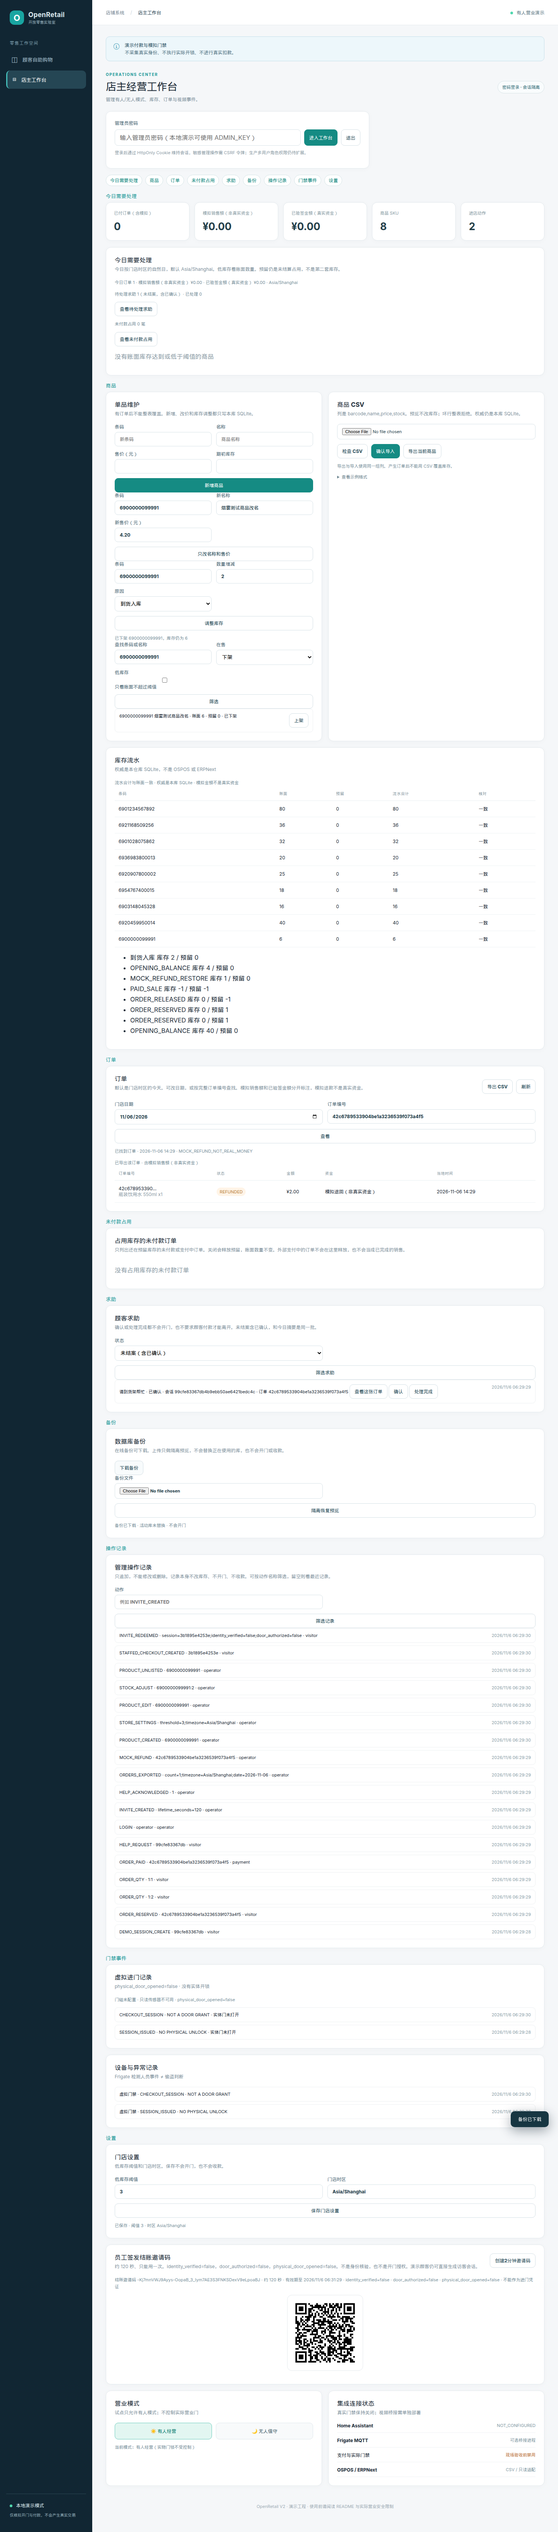
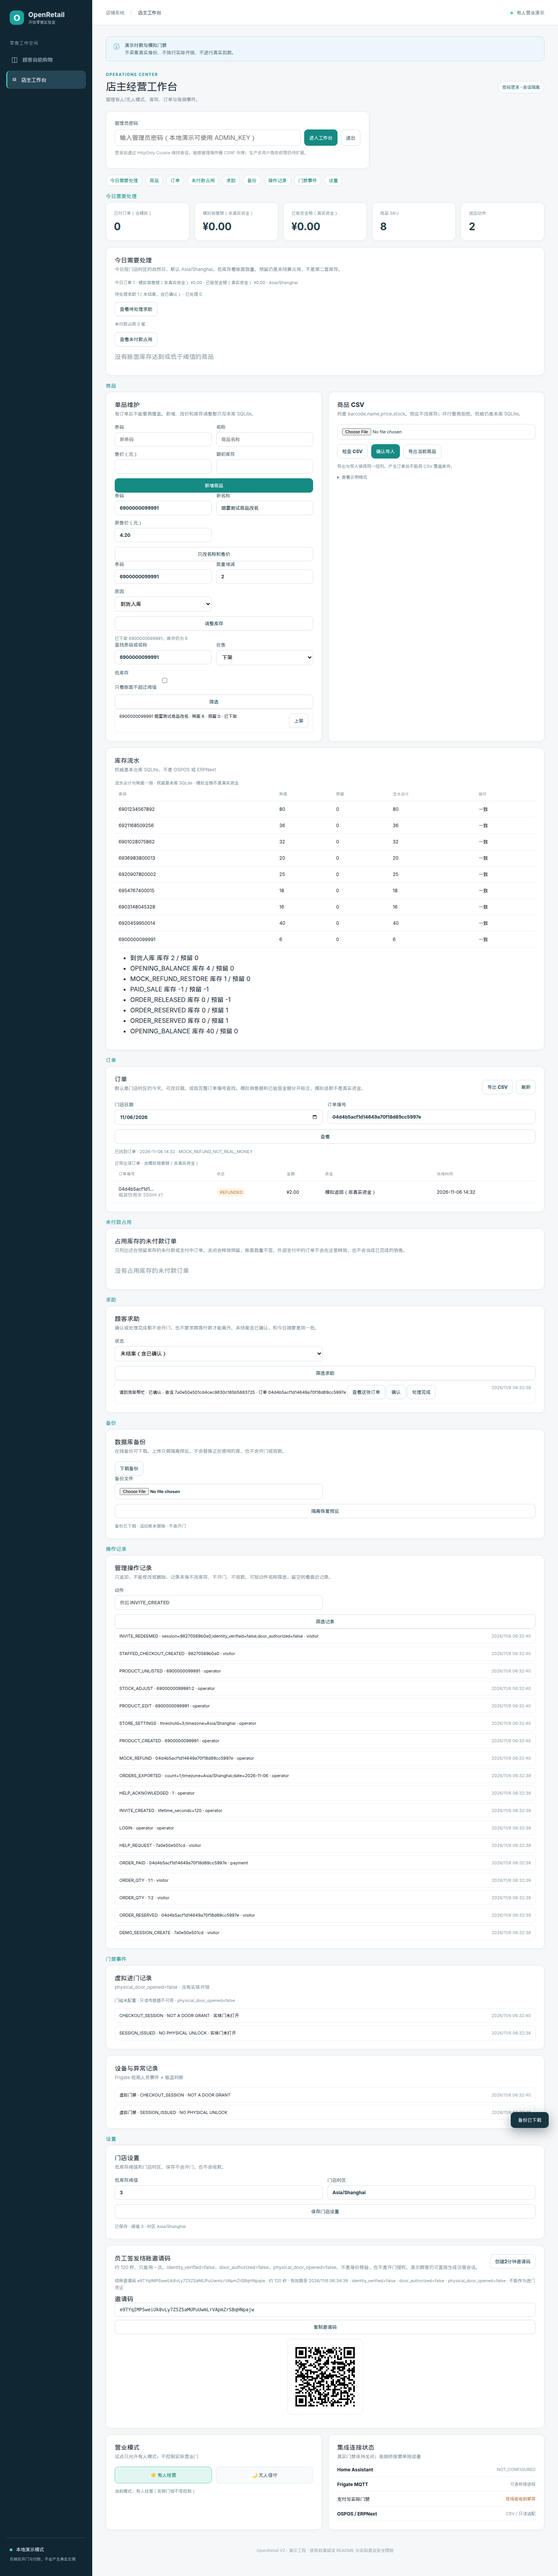
Let staff copy the unused checkout invite code.
The copy control uses only that code, and it does not issue another invite or write the code into the audit log.

diff --git a/web/index.html b/web/index.html
@@ -103,7 +103,7 @@
           <article class="surface"><div class="surface-heading"><div><h2>门店设置</h2><p>低库存阈值和门店时区。保存不会开门，也不会收款。</p></div></div><form id="store-settings-form" class="product-form"><label>低库存阈值<input id="low-stock-threshold" name="threshold" type="number" min="1" max="10000" required></label><label>门店时区<input id="store-timezone" name="timezone" required placeholder="Asia/Shanghai"></label><button class="btn secondary" type="submit">保存门店设置</button></form><div id="store-settings-status" class="inline-note">尚未修改</div></article>
           <article class="surface invite-panel"><div class="surface-heading"><div><h2>员工签发结账邀请码</h2>
             <p>约 120 秒、只能用一次。identity_verified=false，door_authorized=false，physical_door_opened=false。不是身份核验，也不是开门授权。演示顾客仍可直接生成访客会话。</p></div><button id="issue-invite" class="btn secondary">创建2分钟邀请码</button></div>
-            <div id="invite-result" class="inline-note">尚未生成</div><img id="invite-qr" class="qr-code" alt="试点结账二维码" hidden></article>
+            <div id="invite-result" class="inline-note">尚未生成</div><div class="invite-code-row"><label>邀请码<input id="invite-code" readonly aria-label="邀请码"></label><button id="invite-copy" class="btn secondary" type="button">复制邀请码</button></div><img id="invite-qr" class="qr-code" alt="试点结账二维码" hidden></article>
           <div class="admin-grid">
             <article class="surface"><div class="surface-heading"><div><h2>营业模式</h2><p>试点只允许有人模式；不控制实际营业门</p></div></div><div class="mode-options"><button id="mode-staffed" class="mode-btn">☀ 有人经营</button><button id="mode-unattended" class="mode-btn">🌙 无人值守</button></div><div class="inline-note" id="mode-info">当前模式：—</div></article>
             <article class="surface"><div class="surface-heading"><div><h2>集成连接状态</h2><p>真实门禁保持关闭；视频桥接需单独部署</p></div></div><div class="integrations"><div><b>Home Assistant</b><span id="ha-state">未启用</span></div><div><b>Frigate MQTT</b><span>可选桥接进程</span></div><div><b>支付与实际门禁</b><span class="status-warning">现场验收前禁用</span></div><div><b>OSPOS / ERPNext</b><span>CSV / 只读适配</span></div></div></article>

diff --git a/web/styles.css b/web/styles.css
@@ -5,6 +5,6 @@
 
 .invite-redeem{display:grid;gap:8px;margin-top:10px}.invite-redeem input{width:100%;min-width:0;padding:10px;border:1px solid #d8e3e5;border-radius:9px}.qr-code{display:block;width:196px;height:196px;object-fit:contain;margin:12px auto;border:1px solid #e5e9ed;border-radius:12px;padding:8px;background:#fff}.qr-code[hidden]{display:none}
 
-.invite-panel{margin-bottom:16px}
+.invite-panel{margin-bottom:16px}.invite-code-row{display:grid;gap:8px;margin-top:10px}.invite-code-row input{width:100%;min-width:0;max-width:100%;font-family:ui-monospace,SFMono-Regular,monospace;font-size:12px}
 .admin-nav{display:flex;flex-wrap:wrap;gap:8px;margin:0 0 8px;max-width:100%}.admin-nav a{font-size:12px;font-weight:700;color:#158b83;text-decoration:none;border:1px solid #d4e4e6;background:#fff;border-radius:999px;padding:6px 10px;max-width:100%}.admin-section{scroll-margin-top:12px}.admin-section-title{font-size:13px;letter-spacing:.4px;color:#1e9999;margin:18px 0 8px}
 .receipt{margin-top:12px;padding:12px;border:1px solid #d5e0e6;border-radius:12px;background:#fff;color:#1c2b37}.receipt label{display:block;font-size:12px;color:#506b78;font-weight:650}.receipt input{display:block;width:100%;max-width:100%;margin-top:6px;font-family:ui-monospace,SFMono-Regular,monospace;font-size:12px}.receipt-status,#receipt-items,#receipt-amount,#receipt-money{font-size:12px;margin-top:8px;overflow-wrap:anywhere}.order-history .receipt-id{font-family:ui-monospace,SFMono-Regular,monospace;font-size:12px;margin:6px 0;overflow-wrap:anywhere}

diff --git a/web/app.js b/web/app.js
@@ -85,10 +85,12 @@ $('issue-invite').onclick=()=>run(async()=>{
  try{const r=await api('/api/admin/checkout-invite',{admin:true,method:'POST'});
   if(r.duplicate)return;
   if(r.identity_verified||r.door_authorized||r.physical_door_opened||r.payment_required_to_leave)throw Error('邀请码不应核验身份或开门');
+  $('invite-code').value=r.invite;
   $('invite-result').textContent='结账邀请码 '+r.invite+' · 约 '+(r.lifetime_seconds||120)+' 秒 · 有效期至 '+time(r.expires_at)+' · identity_verified=false · door_authorized=false · physical_door_opened=false · 不能作为进门凭证';
   $('invite-qr').src=r.qr_data_uri;$('invite-qr').hidden=false;
  }finally{state.issuing=false;$('issue-invite').disabled=false}
 });
+$('invite-copy').onclick=()=>run(async()=>{const code=$('invite-code').value;if(!code)throw Error('还没有邀请码');$('invite-code').focus();$('invite-code').select();try{await navigator.clipboard.writeText(code);toast('邀请码已复制')}catch{toast('邀请码已选中，可手动复制')}});
 $('cancel-order-btn').onclick=()=>run(async()=>{if(!state.orderId)return;
  const r=await api('/api/orders/'+state.orderId+'/cancel',{method:'POST',guest:true});
  state.orderId='';state.orderTotal=null;state.orderLines=null;$('pay-btn').disabled=true;$('cancel-order-btn').disabled=true;

diff --git a/tests/test_invite_copy.py b/tests/test_invite_copy.py
@@ -1,0 +1,49 @@
+"""Copying an invite reads the unused code and does not issue another one."""
+from conftest import visitor
+
+
+def test_invite_copy_uses_the_code_only(client, admin_header):
+    product=client.get('/api/products').json()[0]
+    with client.app.state.db.connect() as conn:
+        stock=conn.execute('SELECT stock,reserved_stock FROM products WHERE id=?',(product['id'],)).fetchone()
+        moves=conn.execute('SELECT COUNT(*) n FROM stock_movements').fetchone()['n']
+    created=client.post('/api/admin/checkout-invite',headers=admin_header)
+    assert created.status_code==200
+    body=created.json()
+    code=body['invite']
+    assert body['duplicate'] is False and body['lifetime_seconds']==120
+    assert body['identity_verified'] is False and body['door_authorized'] is False
+    assert body['physical_door_opened'] is False and body['payment_required_to_leave'] is False
+    assert 'identity_verified' not in code and ' ' not in code
+    with client.app.state.db.connect() as conn:
+        assert conn.execute('SELECT COUNT(*) n FROM checkout_invites').fetchone()['n']==1
+        audits=conn.execute("SELECT detail FROM audit_events WHERE action='INVITE_CREATED'").fetchall()
+        assert [row['detail'] for row in audits]==['lifetime_seconds=120']
+        assert code not in audits[0]['detail']
+    page=__import__('pathlib').Path('web/index.html').read_text(encoding='utf-8')
+    script=__import__('pathlib').Path('web/app.js').read_text(encoding='utf-8')
+    assert 'id="invite-code"' in page and 'id="invite-copy"' in page and '复制邀请码' in page
+    assert "$('invite-code').value=r.invite" in script
+    copy=script.split("$('invite-copy').onclick")[1].split("$('cancel-order-btn')")[0]
+    assert "const code=$('invite-code').value" in copy
+    assert 'navigator.clipboard.writeText(code)' in copy
+    assert '邀请码已复制' in copy and '邀请码已选中，可手动复制' in copy
+    assert "throw Error('还没有邀请码')" in copy
+    assert 'checkout-invite' not in copy and 'INVITE_CREATED' not in copy
+    assert '结账邀请码' not in copy
+    redeemed=client.post('/api/entry/redeem',json={'invite':code})
+    assert redeemed.status_code==200
+    assert redeemed.json()['identity_verified'] is False and redeemed.json()['door_authorized'] is False
+    assert redeemed.json()['physical_door_opened'] is False
+    direct=client.post('/api/entry')
+    assert direct.status_code==200 and direct.json()['physical_door_opened'] is False
+    with client.app.state.db.connect() as conn:
+        assert conn.execute('SELECT COUNT(*) n FROM checkout_invites').fetchone()['n']==1
+        assert conn.execute("SELECT COUNT(*) n FROM audit_events WHERE action='INVITE_CREATED'").fetchone()['n']==1
+        assert conn.execute("SELECT COUNT(*) n FROM audit_events WHERE action='INVITE_REDEEMED'").fetchone()['n']==1
+        now=conn.execute('SELECT stock,reserved_stock FROM products WHERE id=?',(product['id'],)).fetchone()
+        assert now['stock']==stock['stock'] and now['reserved_stock']==stock['reserved_stock']
+        assert conn.execute('SELECT COUNT(*) n FROM stock_movements').fetchone()['n']==moves
+    assert client.get('/api/admin/inventory-ledger',headers=admin_header).json()['balanced'] is True
+    guest=visitor(client)
+    assert client.post('/api/orders/'+'x'*32+'/refund',headers=guest).status_code==404

diff --git a/scripts/ui_bridge_smoke.py b/scripts/ui_bridge_smoke.py
@@ -100,10 +100,15 @@ with TestClient(create_app(cfg)) as backend,sync_playwright() as pw:
  p.wait_for_function("(()=>{const t=document.querySelector('#event-list').textContent;return !t.includes('盗窃')&&!t.includes('偷盗')&&!t.includes('未付款离店')})()")
  p.wait_for_function("document.querySelector('#door-lock-note').textContent.includes('physical_door_opened=false')")
  p.wait_for_function("document.querySelector('#door-contact').textContent.includes('门磁未配置') && document.querySelector('#door-contact').textContent.includes('physical_door_opened=false') && !document.querySelector('#door-contact').textContent.includes('已开锁')")
+ p.locator('#invite-copy').click()
+ p.wait_for_function("document.querySelector('#toast').textContent.includes('还没有邀请码')")
  p.evaluate("() => { const b=document.querySelector('#issue-invite'); b.click(); b.click(); }")
  p.wait_for_function("document.querySelector('#invite-result').textContent.includes('120') && document.querySelector('#invite-result').textContent.includes('identity_verified=false') && document.querySelector('#invite-result').textContent.includes('door_authorized=false') && document.querySelector('#invite-result').textContent.includes('physical_door_opened=false') && document.querySelector('#invite-result').textContent.includes('不能作为进门凭证') && document.querySelector('#invite-qr').hidden===false")
+ p.locator('#invite-copy').click()
+ p.wait_for_function("(()=>{const t=document.querySelector('#toast').textContent;const code=document.querySelector('#invite-code').value;return (t.includes('邀请码已复制')||t.includes('邀请码已选中，可手动复制'))&&code.length>=24&&!code.includes(' ')&&document.querySelector('#invite-result').textContent.includes(code)})()")
  with backend.app.state.db.connect() as conn:
   assert conn.execute('SELECT COUNT(*) n FROM checkout_invites').fetchone()['n']==1
+  assert conn.execute("SELECT COUNT(*) n FROM audit_events WHERE action='INVITE_CREATED'").fetchone()['n']==1
  p.locator('[data-help-status="ACKNOWLEDGED"]').click()
  p.wait_for_function("document.querySelector('#help-list').textContent.includes('已确认')")
  p.wait_for_function("document.querySelector('#ledger-balance').textContent.includes('一致')")
@@ -162,7 +167,7 @@ with TestClient(create_app(cfg)) as backend,sync_playwright() as pw:
  assert '6900000099991' not in p.locator('#catalog').inner_text()
  p.locator('[data-panel="admin"]').click()
  p.wait_for_function("document.querySelector('#ledger-balance').textContent.includes('一致')")
- code=p.locator('#invite-result').inner_text().split('结账邀请码 ',1)[1].split(' · ',1)[0]
+ code=p.locator('#invite-code').input_value()
  p.locator('[data-panel="shop"]').click()
  p.locator('#invite-token').fill(code)
  p.evaluate("() => { const b=document.querySelector('#redeem-btn'); b.click(); b.click(); }")

diff --git a/docs/PROJECT_STATUS.md b/docs/PROJECT_STATUS.md
@@ -4,6 +4,18 @@
 
 完全无人值守经营仍是 **NOT_APPROVED**。示例配置里的真实支付和实体开锁都是关闭的。
 
+## 本增量（复制未使用的邀请码）
+
+已在代码和测试里做到，并在本机复跑：
+
+- 创建成功后，「复制邀请码」只复制那一串未使用的邀请码，不复制旁边的状态句子。剪贴板可用时提示「邀请码已复制」；不可用时选中这串码，提示「邀请码已选中，可手动复制」。还没创建过时提示「还没有邀请码」，不会临时造一个码。
+- 复制不新建邀请码，不写 `INVITE_CREATED`，也不把码放进操作记录或新的服务端表。`INVITE_CREATED` 仍只记 `lifetime_seconds=120`。再次创建成功后，复制的是页面上最新的那一串。创建按钮的进行中保护还在。
+- 用复制出来的未使用码领取，仍只开一个会话，identity_verified、door_authorized、physical_door_opened 仍是 false。页面仍写明不能作为进门凭证。演示「生成访客会话」不需要邀请码，也不写 `INVITE_REDEEMED`。这条路径不改账面或预留，不写库存流水，不开门，不调用支付机构。
+
+`/tmp/openretail-venv/bin/python -m pytest -q`（工作目录 `/workspace`，Python 3.12.3）：**85 passed，1 warning，8.92s，退出码 0**。警告仍是 Starlette 的 `httpx` TestClient 弃用提示。85 = 上一轮 84 + 本增量 1。
+
+`scripts/ui_bridge_smoke.py` 在去掉密钥环境变量后退出码 0。顾客没有先领取邀请码，仍用「生成访客会话」完成 ¥2.00 模拟支付，并含「模拟支付成功 · 非真实资金 · 已扣库存」。管理页在创建前点复制，提示「还没有邀请码」；创建一张后再复制，提示已复制或已选中可手动复制，邀请码仍是一张，没有多写 `INVITE_CREATED`。390 宽 `scrollWidth` 390，1440 宽 `scrollWidth` 1440，`pageerror` 为空。这仍是 Chrome 到 TestClient 的桥，不是真机，也不是真实收款。这条 PR 仍未合并。
+
 ## 本增量（领取邀请码进行中忽略第二次点击）
 
 已在代码和测试里做到，并在本机复跑：
